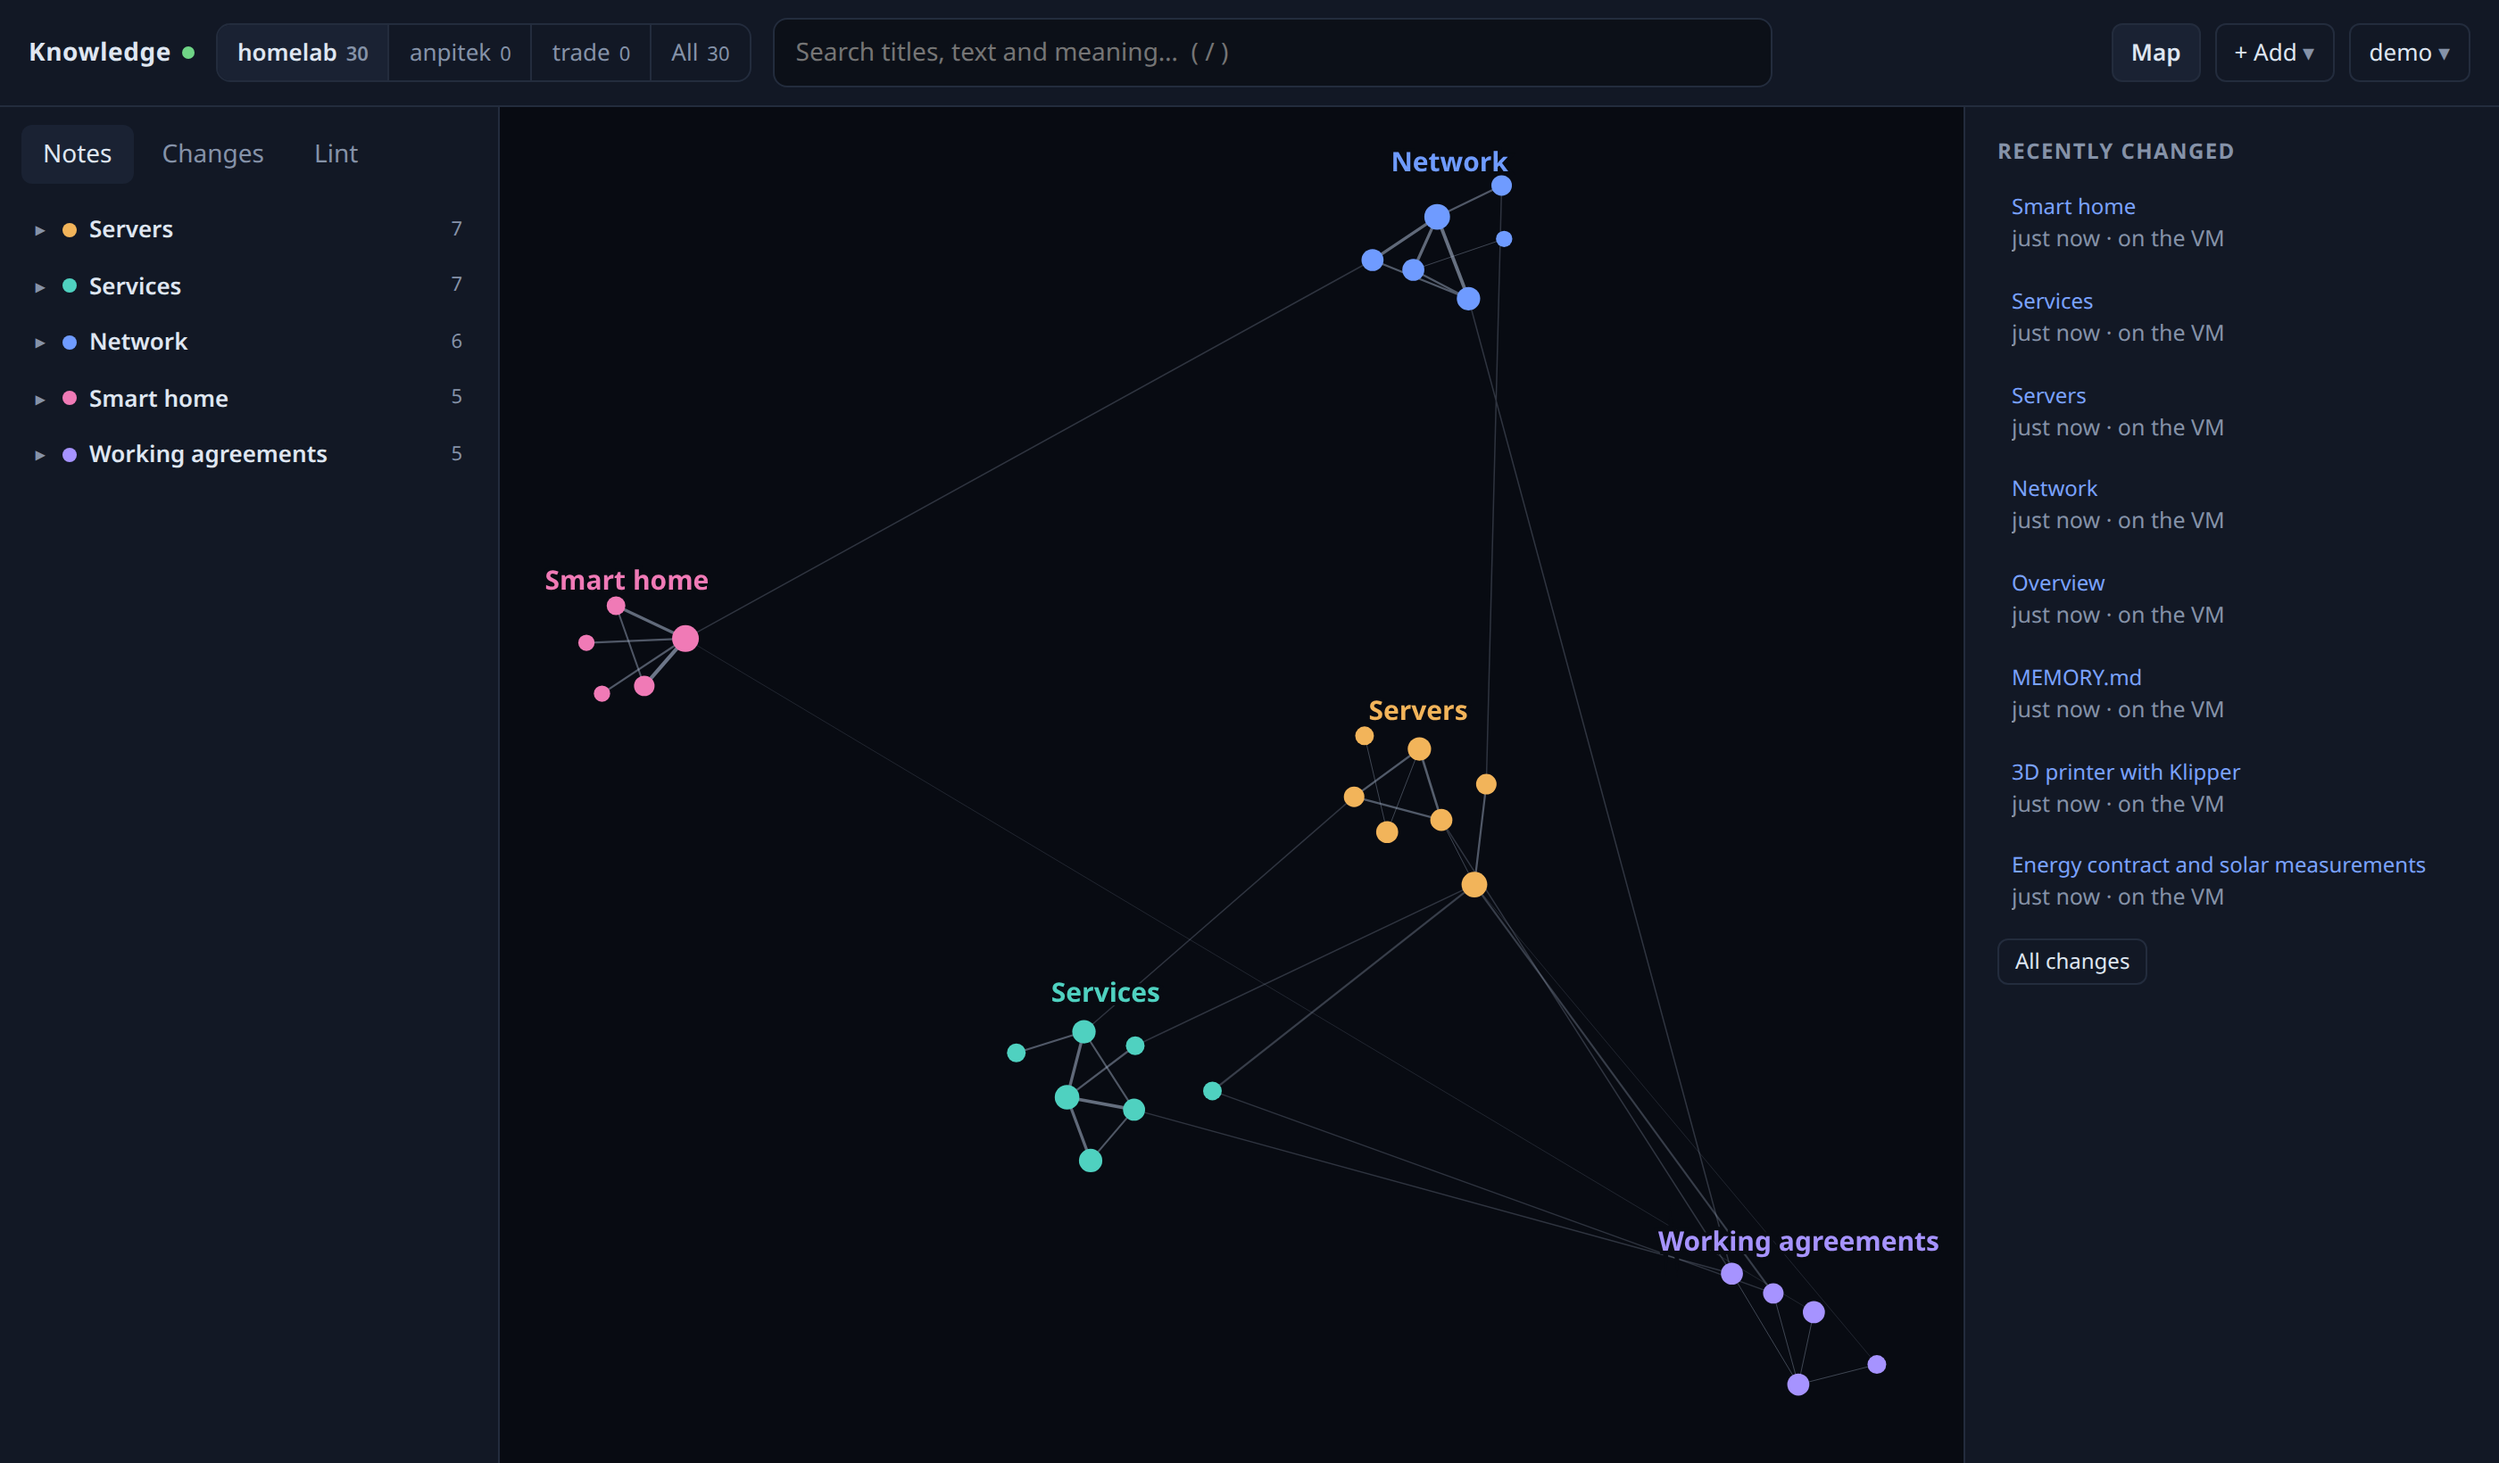
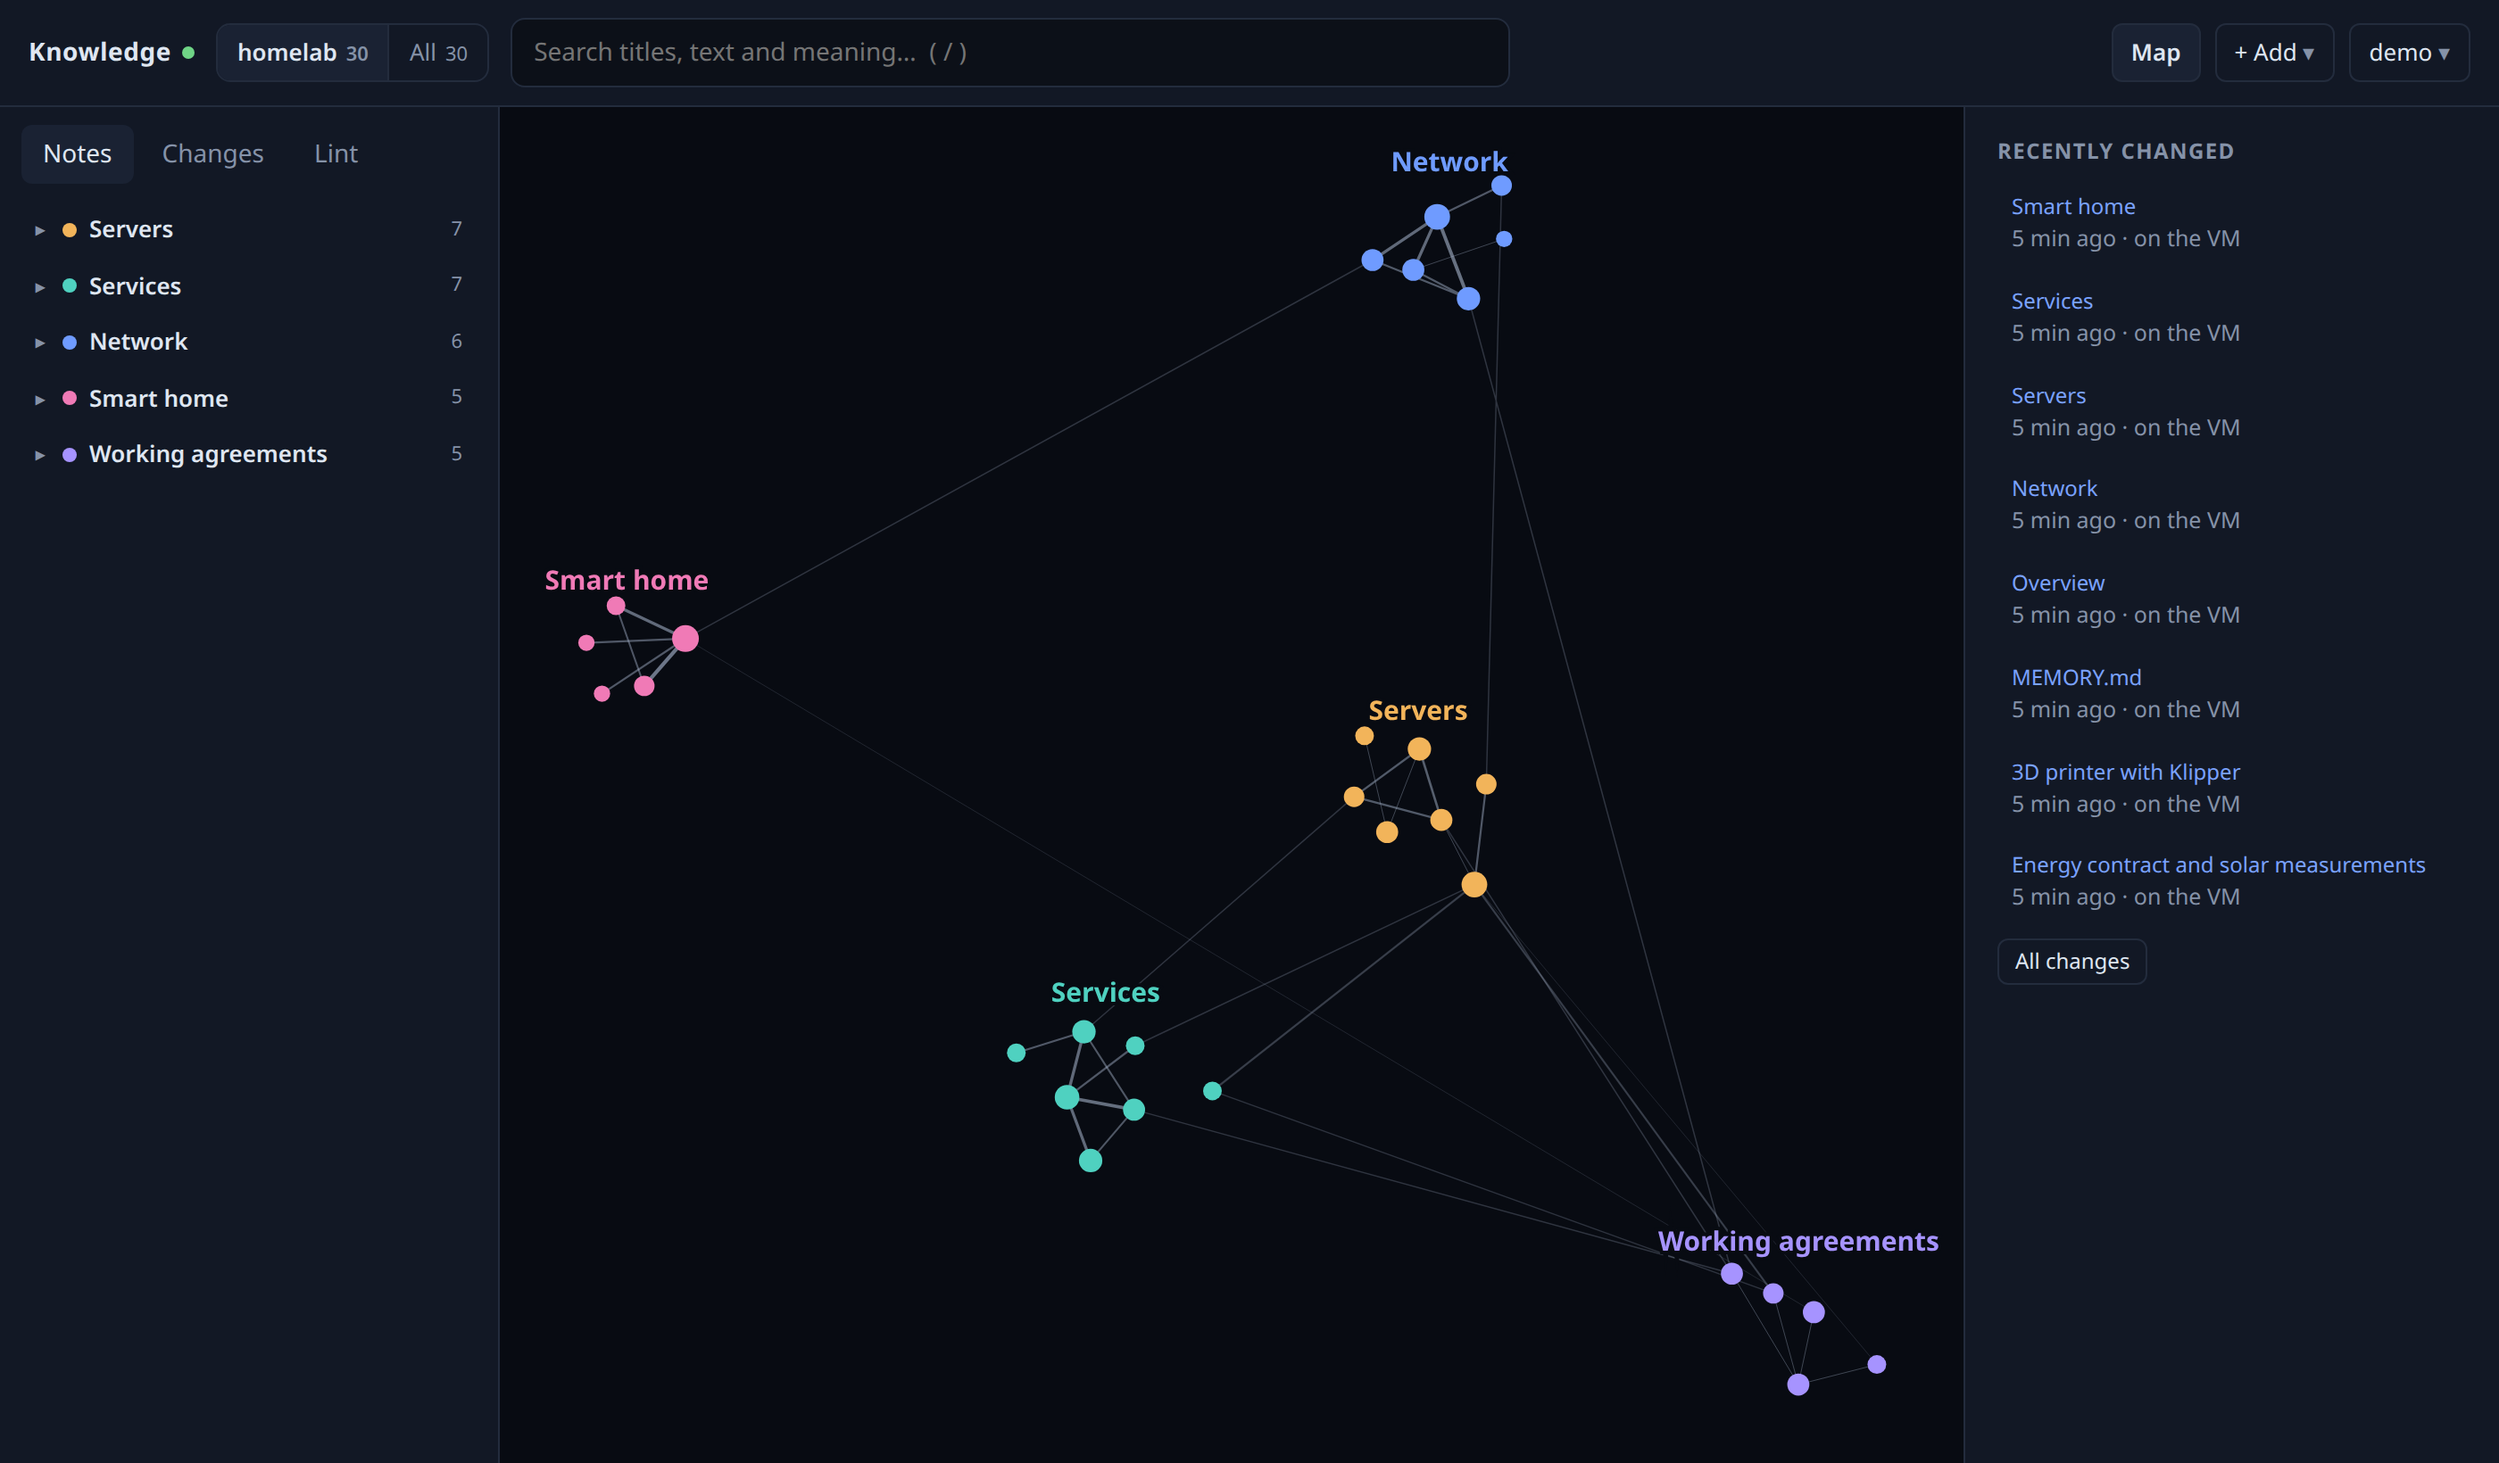
feat(ui): no tab for a built-in project with no notes
An installation without the anpitek or trade folders showed empty tabs
for them. The first built-in project always keeps its tab, so the UI
never ends up without one. Screenshots regenerated.

Claude-Session: https://claude.ai/code/session_01UbLwoFbzRp4W4N1G9xvhNh

diff --git a/server/test_server.py b/server/test_server.py
@@ -313,7 +313,7 @@ def main():
         assert raw("GET", "/ui/static/app.js")[0] == 200  # static is public (no data)
         assert raw("GET", "/", headers=ck)[1].get("location") == "/ui"
         assert raw("GET", "/ui", headers=ck)[0] == 200
-        assert json.loads(raw("GET", "/ui/api/me", headers=ck)[2]) == {"user": "alice", "admin": True, "projects": ["homelab", "anpitek", "trade"], "writable": ["homelab", "anpitek", "trade"]}
+        assert json.loads(raw("GET", "/ui/api/me", headers=ck)[2]) == {"user": "alice", "admin": True, "projects": ["homelab", "trade"], "writable": ["homelab", "trade"]}  # anpitek is empty here: no tab
         g = json.loads(raw("GET", "/ui/api/graph", headers=ck)[2])
         assert g["nodes"] and not any(n["id"].endswith("/MEMORY.md") for n in g["nodes"]), g["nodes"][:3]  # index not drawn, still readable below
         assert {n["project"] for n in g["nodes"] if n["id"].startswith("trade")} == {"trade"}

diff --git a/server/server.py b/server/server.py
@@ -2308,7 +2308,10 @@ async def ui_me(request: Request):
     dev = device.get()
     roots = dev.get("roots")
     wr = dev.get("write_roots")
-    projects = [p for p, (d, m) in list(PROJECTS.items()) if not roots or d in roots]
+    used = {rel.split("/", 1)[0] for rel in list(index.files)}
+    # An empty built-in project (its folders absent on this installation) gets no tab; the first one always stays.
+    projects = [p for i, (p, (d, m)) in enumerate(list(PROJECTS.items())) if (not roots or d in roots)
+                and (i == 0 or p not in BUILTIN_PROJECTS or d in used or m in used)]
     return JSONResponse({"user": dev.get("user"), "admin": bool(dev.get("admin")), "projects": projects,
                          "writable": [p for p in projects if wr is None or PROJECTS[p][1] in wr]})
 
